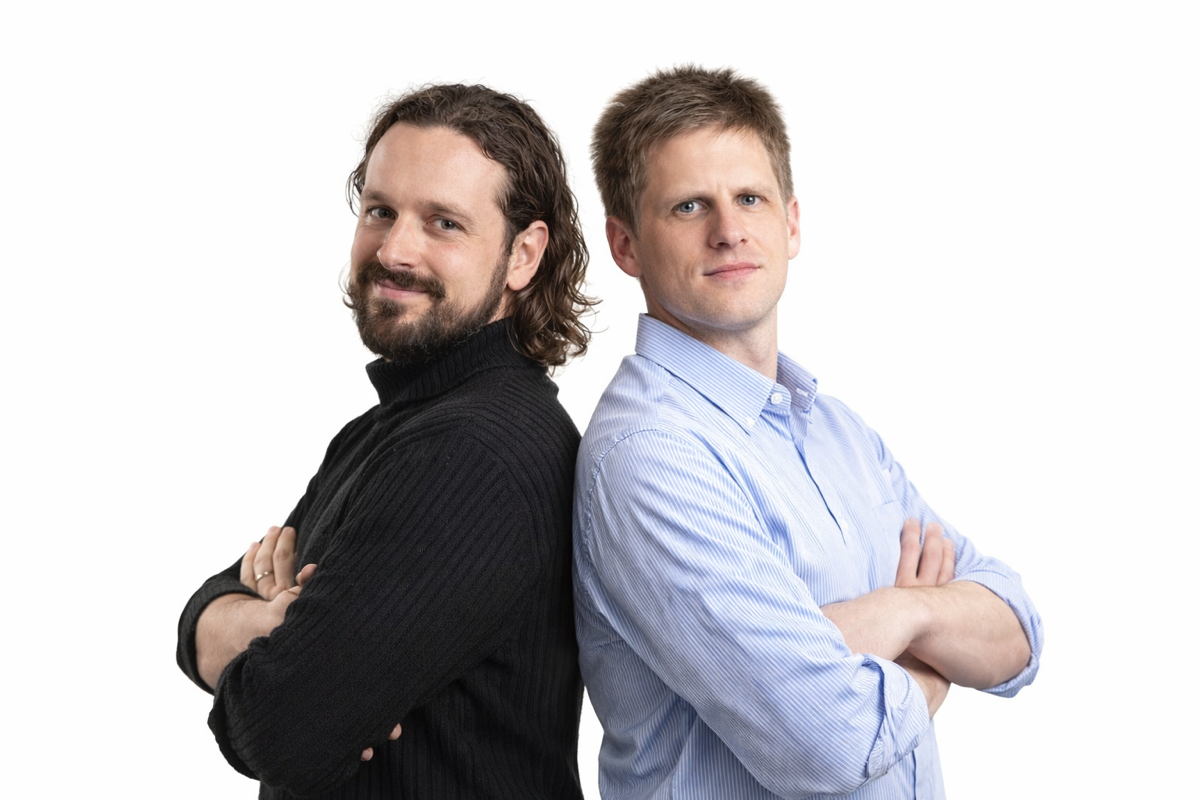
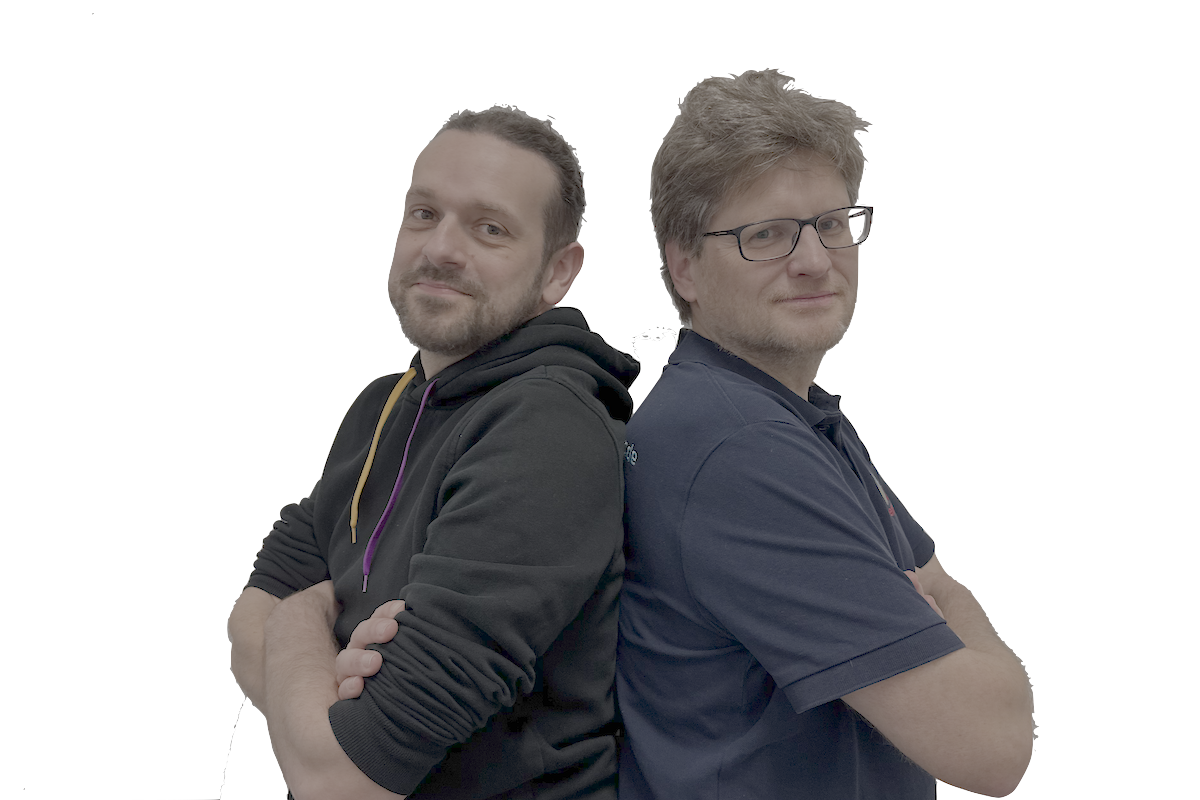
updated intro

diff --git a/presentations/00-intro/index.html b/presentations/00-intro/index.html
@@ -63,7 +63,7 @@
 								<li>Linkedin: <a href="https://www.linkedin.com/in/tom-asel">tom-asel</a></li>
 							</ul>
 						</section>		<section class="section-title"
-								 data-background-image="/assets/images/photos/falk.png"
+								 data-background-image="/assets/images/photos/falk.jpg"
 									data-background-size="50% auto"
 									data-background-position="left"
 									data-transition="fade">
@@ -75,9 +75,30 @@
 							<h2> iSAQB Trainer</h2>
 							<img src="/assets/images/photos/embarc-logo.svg" style="width: 30vw">
 							<ul style="margin-top: 2em">
-								<li>Linkedin: <a href="https://www.linkedin.com/in/falk-sippach">falk-sippach</a></li>
+								<li>Linkedin: <a href="https://www.linkedin.com/in/falk-sippach">/in/falk-sippach</a></li>
+								<li>Bluesky: <a href="https://bsky.app/profile/sippsack.bsky.social">@sippsack</a></li>
+								<li>Mastodon: <a href="https://ijug.social/@sippsack">@sippsack</a></li>
 							</ul>
 							</div>
+						</section>		<section class="section-title"
+						         data-background-image="./images/sapiens.png"
+						         data-background-size="30% auto"
+						         data-background-position="right"
+						         data-transition="fade">
+						    <h1 style="margin-top: 1em">Mythen sind wichtig</h1>
+						
+						
+						    <p class="half-width" style="font-style: italic">
+						        "As far as we know, only Sapiens can talk about entire kinds of entities that they have never seen, touched, or
+						        smelled.
+						    </p>
+						    <p class="half-width" style="font-style: italic; color: var(--heading-block-color)">
+						        [...] This ability to speak about fictions is the most unique feature of Sapiens' language …
+						    </p>
+						    <p class="half-width" style="font-style: italic">
+						        <strong>Large numbers of strangers can cooperate successfully by believing in common myths.</strong>"
+						
+						    </p>
 						</section>		<section class="section-title"
 						         data-background-image="./images/cliff.png"
 						         data-background-size="50% auto"
@@ -103,7 +124,7 @@
 						    </ul>
 						
 						
-						</section>		<section data-markdown="slides/50-mythen-liste.md" data-separator-notes="^Note:"></section>			</div>
+						</section>		<section data-markdown="slides/41-menti-erste-umfrage.md" data-separator-notes="^Note:"></section>		<section data-markdown="slides/50-mythen-liste.md" data-separator-notes="^Note:"></section>		<section data-markdown="slides/51-menti-zweite-umfrage.md" data-separator-notes="^Note:"></section>			</div>
 		</div>
 
 		<script src="../../assets/vendor/revealjs/reveal.js"></script>

diff --git a/presentations/00-intro/slides/22-introduction-falk.html b/presentations/00-intro/slides/22-introduction-falk.html
@@ -1,5 +1,5 @@
 <section class="section-title"
-		 data-background-image="/assets/images/photos/falk.png"
+		 data-background-image="/assets/images/photos/falk.jpg"
 			data-background-size="50% auto"
 			data-background-position="left"
 			data-transition="fade">
@@ -11,7 +11,9 @@
 	<h2> iSAQB Trainer</h2>
 	<img src="/assets/images/photos/embarc-logo.svg" style="width: 30vw">
 	<ul style="margin-top: 2em">
-		<li>Linkedin: <a href="https://www.linkedin.com/in/falk-sippach">falk-sippach</a></li>
+		<li>Linkedin: <a href="https://www.linkedin.com/in/falk-sippach">/in/falk-sippach</a></li>
+		<li>Bluesky: <a href="https://bsky.app/profile/sippsack.bsky.social">@sippsack</a></li>
+		<li>Mastodon: <a href="https://ijug.social/@sippsack">@sippsack</a></li>
 	</ul>
 	</div>
 </section>

diff --git a/assets/css/styles.css b/assets/css/styles.css
@@ -407,7 +407,7 @@ pre + pre {
   display: inline-block;
   background: rgba(255, 235, 160, 0.85);
   color: #0a161b;
-  padding: 0.15em 0.4em;
+  padding-right: 0.15em;
   border-radius: 6px;
   color: var(--background-color);
 }

diff --git a/theme/scss/styles.scss b/theme/scss/styles.scss
@@ -50,7 +50,7 @@ pre + pre {
 	display: inline-block;
 	background: rgba(255, 235, 160, 0.85);
 	color: #0a161b;
-	padding: 0.15em 0.4em;
+	padding-right: 0.15em;
 	border-radius: 6px;
 	color: var(--background-color);
 }

diff --git a/presentations/00-intro/slides/50-mythen-liste.md b/presentations/00-intro/slides/50-mythen-liste.md
@@ -6,8 +6,7 @@
 | 02 | Wir treffen Entscheidungen auf Basis von Fakten!                       |
 | 03 | Hexagonal / Onion / Clean Architecture - Das ist alles das Selbe!      |
 | 04 | Architekturentwurf muss upfront erfolgen!                              |
-| 05 | Agile Teams brauchen keinen Architekten!                                                                 |
-| 06 | Microservices sind moderner                                                                 |
-| 07 | Architekturdokumentation ist überbewertet
-|
+| 05 | Agile Teams brauchen keinen Architekten!                               |
+| 06 | Microservices sind moderner                                            |
+| 07 | Architekturdokumentation ist überbewertet                              |
 | 08 | Wiederverwendbare Prototypen - Der 'Prototyp mit Produktionscharakter' |

diff --git a/presentations/00-intro/slides/51-menti-zweite-umfrage.md b/presentations/00-intro/slides/51-menti-zweite-umfrage.md
@@ -1,0 +1,3 @@
+# Umfrage: Welche Mythen sollen wir besprechen?
+
+<img src="./images/mentimeter.webp" alt="Mentimeter Umfrage" class="fit-slide" style="background: white; padding: 0px;  box-sizing: border-box; display: inline-block; border-radius: 2px;" />

diff --git a/presentations/00-intro/slides/41-menti-erste-umfrage.md b/presentations/00-intro/slides/41-menti-erste-umfrage.md
@@ -1,0 +1,3 @@
+# Umfrage
+
+<img src="./images/mentimeter.webp" alt="Mentimeter Umfrage" class="fit-slide" style="background: white; padding: 0px;  box-sizing: border-box; display: inline-block; border-radius: 2px;" />

diff --git a/presentations/07-architecture-documentation-is-overrated/slides/40-Symptome.md b/presentations/07-architecture-documentation-is-overrated/slides/40-Symptome.md
@@ -12,4 +12,3 @@
 * "Das wusste ich nicht"-Momente häufen sich
 * Teams erzeugen versehentlich neue Abhängigkeiten
 * Qualitätsziele sind unklar oder variieren stark <!-- .element: class="highlight" -->
-l
